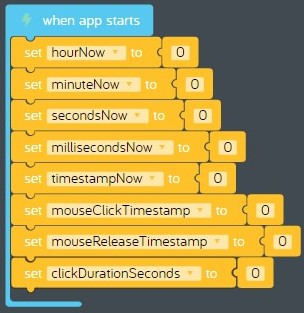
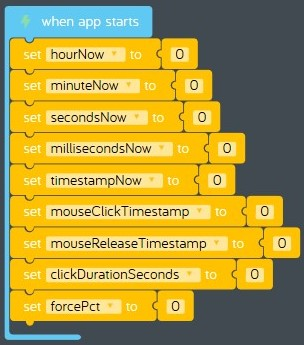
added forcePct to lesson 11

diff --git a/11-games-part-04/README.md b/11-games-part-04/README.md
@@ -1,6 +1,6 @@
-# Lesson 10 - games part 3
+# Lesson 10 - games part 4
 
-In this lesson we'll continue building our *baseball toss* game by adding code that lets the player control how fast to throw the baseball.
+In this lesson we'll continue building our *baseball toss* game by adding code that allows the player to control how hard to throw the baseball.
 
 ## Review
 
@@ -8,30 +8,32 @@ In the previous lesson we added code that draws a cross hair where the player wa
 
 ## Hands on
 
-Let's add some code that allows the player to throw the ball at different speeds.  
+Let's start adding some code that allows the player to throw the ball at different speeds. Before we start coding, let's make a plan. Sometimes it helps to work out the code in advance before you start coding. This process is called writing [pseudocode](https://en.wikipedia.org/wiki/Pseudocode). Let's use the amount of time the player holds down the mouse button to control how hard the alien throws the baseball. To do this we will need to calculate how long the mouse button was held down, then convert that into a force percentage.
 
-1. Before we start coding, let's make a plan.
-    1. **Calculating force:** Let's use the amount of time the player holds down the mouse button to control how hard the alien throws the baseball. To do this we will need to calculate how long the mouse button was held down, then convert the length of time into a percentage. For example, 10% would be a very slow toss because the alien only uses a little force, while 100% would be a super fast throw because the alien use a lot of force. We are going to need to use some math to translate the time the mouse was held down into a percentage. We could jump write in and start writing code, but sometimes it helps to work out the code in advance before you start coding. This process is called writing [pseudocode](https://en.wikipedia.org/wiki/Pseudocode).  
-    1. **Timestamp calculation:** First, we need a way to record when the mouse button was clicked (*on click* event), and when the mouse button was released (*on release* event). Programming languages are like a tool box. Some programming languages like *Kano Code* provide a just a few simple tools. Others, like *JavaScript* have every tool you could imagine. Many programming languages have a tool for what we need called a *timestamp*, which is a number that represents a particular moment in time. It's perfect for recording when an event happened. Unfortunately *Kano Code* doesn't have a *timestamp* code block so we will have to make our own.  Using a digital clock we can measure the current time down to the milliseconds. When you check the time on a digital clock it looks like this: `HH:MM:SS.000`. Here's what each of the time parts mean:  
-        Time Part | What it Means | Range | Notes
-        :-: | :-: | :-: | ---
-        HH | Hour | 0 - 23 | There are 24 hours in a day, hour 0 is just after midnight but before 1 in the morning)
-        MM | Minute | 0 - 59 | There are 60 minutes in an hour.
-        SS | Seconds | 0 - 59 | There are 60 seconds in a minute.
-        000 | Milliseconds | 0 - 999 | There are 1,000,000 milliseconds in a second, but those are a lot of digits, so digital clocks convert milliseconds into thousandths of a second to make the time more readable.  
-    1. **Timestamp example:** We can get all of these time part values using a *Clock* part in *Kano Code*, but then we will need to combine them into a single number to make our *timestamp*. Since the digital clock converts milliseconds into thousandths of a second, we will need to convert everything to seconds then add them together to get our timestamp number.  Let's say the player clicks the mouse at exactly `12:02:10.730`, the *timestamp* number would be `43,330.730` which is the number of seconds past midnight when the user clicked the mouse. Here's how to calculate the *timestamp* number:  
-        Time Part | Value | Convert to Seconds           |     | Value in Seconds
-        :-:       | :-:   | :-:                          | --: | --:
-        HH        | 12    | 12 x 60 minutes x 60 seconds |     | 43,200.000
-        MM        | 02    | 2 x 60 seconds               | +   | 120.000
-        SS        | 10    | 10                           | +   | 10.000
-        000       | 730   | 730 ÷ 1,000                  | +   | 0.730
-        Timestamp |       |                              | =   | 43,330.730  
-    1. **Calculating duration using timestamps:** Now that we have a way of recording a specific moment in time using a timestamp, we have a way to measure the length of time between two events. Here's the math for calculating how many seconds the player held down the mouse button:
-    `durationSeconds = mouseReleaseTimestamp - mouseClickTimestamp`
-    1. **Timestamp midnight bug:** This code will work great except for one thing, can you guess? What happens at midnight when the time rolls over from `23:59:59.999` to `00:00:00.000`into the next day? It is very unlikely that this will happen, the player would have to click the mouse just before midnight and release the mouse just after midnight, and most players should be in bed by then. If we didn't handle this in our code it would be a [software bug](https://en.wikipedia.org/wiki/Software_bug). Since this will probably never happen, we will avoid this bug by restarting our program if this happens so our game doesn't do anything weird. Don't tell anybody we cheated!  
-    `if (mouseReleaseTimestamp < mouseClickTimestamp) then restart program`  
-1. Okay now that we have a plan let's write the code. Drag a new *when app starts* event code block from the *App* tray into the code space. We keep adding new ones so we can keep the code for each section separate. This makes it easier to [debug](https://en.wikipedia.org/wiki/Debugging) our program.
+1. **Timestamp calculation:** First, we need a way to record when the mouse button was clicked (*on click* event), and when the mouse button was released (*on release* event). Programming languages are like a tool box. Some programming languages like *Kano Code* provide a just a few simple tools. Others, like *JavaScript* have every tool you could imagine. Many programming languages have a tool for what we need called a *timestamp*, which is a number that represents a particular moment in time. It's perfect for recording when an event happened. Unfortunately *Kano Code* doesn't have a *timestamp* code block so we will have to make our own.  Using a digital clock we can measure the current time down to the milliseconds. When you check the time on a digital clock it looks like this: `HH:MM:SS.000`. Here's what each of the time parts mean:  
+    Time Part | What it Means | Range | Notes
+    :-: | :-: | :-: | ---
+    HH | Hour | 0 - 23 | There are 24 hours in a day, hour 0 is just after midnight but before 1 in the morning)
+    MM | Minute | 0 - 59 | There are 60 minutes in an hour.
+    SS | Seconds | 0 - 59 | There are 60 seconds in a minute.
+    000 | Milliseconds | 0 - 999 | There are 1,000,000 milliseconds in a second, but those are a lot of digits, so digital clocks convert milliseconds into thousandths of a second to make the time more readable.  
+1. **Timestamp example:** We can get all of these time part values using a *Clock* part in *Kano Code*, but then we will need to combine them into a single number to make our *timestamp*. Since the digital clock converts milliseconds into thousandths of a second, we will need to convert everything to seconds then add them together to get our timestamp number.  Let's say the player clicks the mouse at exactly `12:02:10.730`, the *timestamp* number would be `43,330.730` which is the number of seconds past midnight when the user clicked the mouse. Here's how to calculate the *timestamp* number:  
+    Time Part | Value | Convert to Seconds           |     | Value in Seconds
+    :-:       | :-:   | :-:                          | --: | --:
+    HH        | 12    | 12 x 60 minutes x 60 seconds |     | 43,200.000
+    MM        | 02    | 2 x 60 seconds               | +   | 120.000
+    SS        | 10    | 10                           | +   | 10.000
+    000       | 730   | 730 ÷ 1,000                  | +   | 0.730
+    Timestamp |       |                              | =   | 43,330.730  
+1. **Calculating duration using timestamps:** Now that we have a way of recording a specific moment in time using a timestamp, we have a way to measure the length of time between two events. Here's the math for calculating how many seconds the player held down the mouse button:
+`durationSeconds = mouseReleaseTimestamp - mouseClickTimestamp`
+1. **Timestamp midnight bug:** This code will work great except for one thing, can you guess? What happens at midnight when the time rolls over from `23:59:59.999` to `00:00:00.000`into the next day? It is very unlikely that this will happen, the player would have to click the mouse just before midnight and release the mouse just after midnight, and most players should be in bed by then. If we didn't handle this in our code it would be a [software bug](https://en.wikipedia.org/wiki/Software_bug). Since this will probably never happen, we will avoid this bug by restarting our program if this happens so our game doesn't do anything weird. Don't tell anybody we cheated!  
+`if (mouseReleaseTimestamp < mouseClickTimestamp) then restart program`  
+1. **Calculating the force percentage:** Finally, we need to convert the length of time the player holds down the mouse button into a force percentage. Let's set the maximum time the player needs to hold down the mouse to 3 seconds, which would be a force percentage of 100%. If the player doesn't hold down the mouse button, we don't want the ball to move too slow, so let's set the minimum force percentage to 10%.  
+`forcePct = clickDurationSeconds ÷ 3`  
+`if (forcePct < 0.1) then (forcePct = 0.1)`  
+`if (forcePct > 1) then (forcePct = 1)`
+1. Okay now it's time to turn our pseudocode into real code. Drag a new *when app starts* event code block from the *App* tray into the code space. We keep adding new ones so we can keep the code for each section separate. This makes it easier to [debug](https://en.wikipedia.org/wiki/Debugging) our program.
 1. Create and initialize 8 new variables inside the previous code block:  
     Variable | Initial Value
     --- | ---
@@ -43,6 +45,7 @@ Let's add some code that allows the player to throw the ball at different speeds
     mouseClickTimestamp | 0
     mouseReleaseTimestamp | 0
     clickDurationSeconds | 0
+    forcePct | 0
 1. Verify your code looks like this:  
     ![11-010](./images/11-010.jpg)  
     **figure 11-010** Completed *when app starts* code block
@@ -88,7 +91,7 @@ Let's add some code that allows the player to throw the ball at different speeds
         1. Change the last *set variable* code block you copied from "mouseClickTimestamp" to "mouseReleaseTimestamp". Your completed code should look like this:  
         ![11-070](./images/11-070.jpg)  
         **figure 11-070** Completed *Mouse: on release* code block
-    1. Now let's add the final calculation which will record how many seconds the player held the mouse button down. Let's also take care of the *timestamp midnight bug* we talked about earlier.
+    1. Now let's add a calculation that will record how many seconds the player held the mouse button down. Let's also take care of the *timestamp midnight bug* we talked about earlier.
         1. Drag a new *if do else* code block from the *Logic* tray and connect it to the last code bock in the *Mouse: on release* event code block.
         1. Drag a new *compare* code block from the *Logic* tray and connect it to the right if the previous *if* code block. Set the first slot of the condition to "mouseReleaseTimestamp", set the condition to "greater than", and set the second slot of the condition to "mouseClickTimestamp".
         1. Drag a new *set variable* code block from the *Variables* tray and connect inside the *if* portion of the *if do else* code block. Set the variable to "clickDurationSeconds".
@@ -100,6 +103,14 @@ Let's add some code that allows the player to throw the ball at different speeds
         1. Verify your completed code looks like this:  
         ![11-080](./images/11-080.jpg)  
         **figure 11-080** Completed "clickDurationSeconds" calculation with bug handling code
+    1. Now that we have calculated "clickDurationSeconds" we can use it to calculate our "forcePct".
+        1. Drag a new *set variable* code block from the *Variables* tray and attach it to the previous code block. Change the variable to "forcePct".
+        1. Drag a new *arithmetic* code block from the *Math* tray and attach it to the right of the previous code block. Set the calculation to "clickDurationSeconds ÷ 3".
+        1. Drag a new *set variable* code block from the *Variables* tray and attach it to the previous code block. Change the variable to "forcePct".
+        1. Find the *constrain* code block in the *Math* tray.
+        ![00-040-120](../images/00-040-120.math.constrain.jpg)  
+        **figure 00-040-120** *constrain* code block in the *Math* tray
+        1. Drag a new *constrain* code block from the *Math* tray and connect it to the right of the previous code block. Set the value in the first slot to "forcePct", set the "low" value to 0.1 and set the "high" value to 1. This will make sure the "forcePct" is never less than 10% and never greater than 100%.
 1. Now let's display the length of time in seconds that the player held down the mouse button.
     1. Add a new *Text* part from *Add Parts*. Since you already have a text part this one will be called "Text 2".
     1. Find the *when app starts* event code block you added in this lesson.
@@ -110,5 +121,5 @@ Let's add some code that allows the player to throw the ball at different speeds
     1. Drag a new *value* code block from the *Text 2* tray and attach it to the last code block in the *every 1 frames* loop. Set the value to "clickDurationSeconds". Your completed code should look like this:  
     ![11-100](./images/11-100.jpg)  
     **figure 11-100** Completed *every 1 frames* loop code block
-1. **Test your program:** Restart your program, then click the mouse button on the canvas and hold it down for 3 seconds before you release it. The number on the bottom of the screen shows how many seconds you held down the mouse button. Try it a few times by restarting your program and holding the mouse button down for different lengths of time.  
+1. **Test your program:** Restart your program, then click the mouse button on the canvas and hold it down for 3 seconds before you release it. The number on the bottom of the screen shows the force percentage. Try it a few times by restarting your program and holding the mouse button down for different lengths of time. Is it ever less than 0.1 (10%)? Is it ever greater than 1 (100%)?
 1. **Save your program:** Now would be a good time to take a break and come back later to continue working on the hands on exercise. Save your program by clicking on *Menu* > *Save*. See [baseball-toss-game-part-04.kcode](./baseball-toss-game-part-04.kcode) if you can't find your program later.
